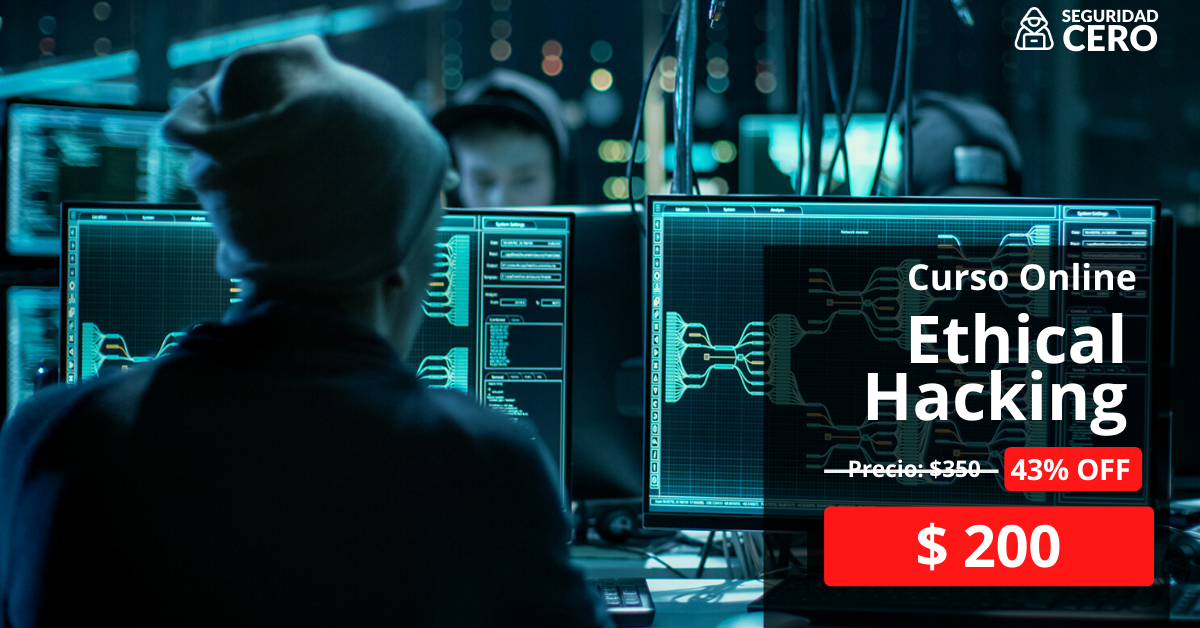
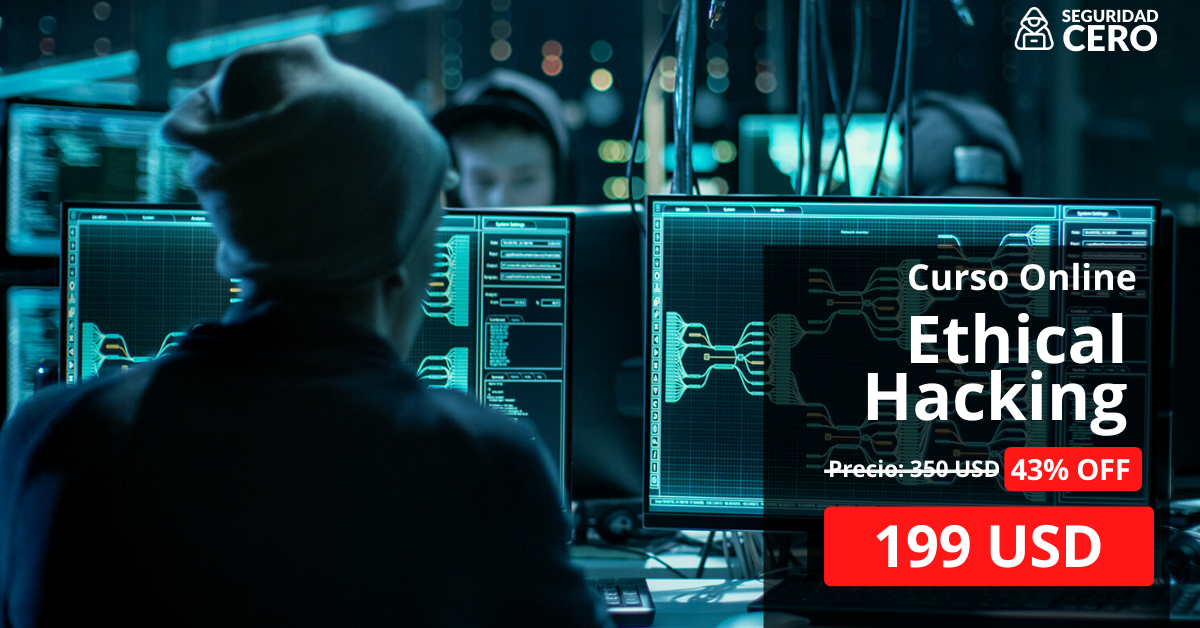
your commit message

Changed region(s): [[0.7092, 0.8169, 0.925, 0.9076], [0.6783, 0.7261, 0.8325, 0.7564]]

diff --git a/curso-ethical-hacking-online.html b/curso-ethical-hacking-online.html
@@ -177,7 +177,7 @@ Inversión
 <div class="scheduelered">
 <div class="schedueleTitle">Oferta 43%:</div>
 <div class="schedueleTitle2">199 USD</div>
-<div class="schedueleTitle">*Solo hasta 3 Abril</div>
+<div class="schedueleTitle">*Solo hasta 10 Abril</div>
 </div>
 
 </div>
